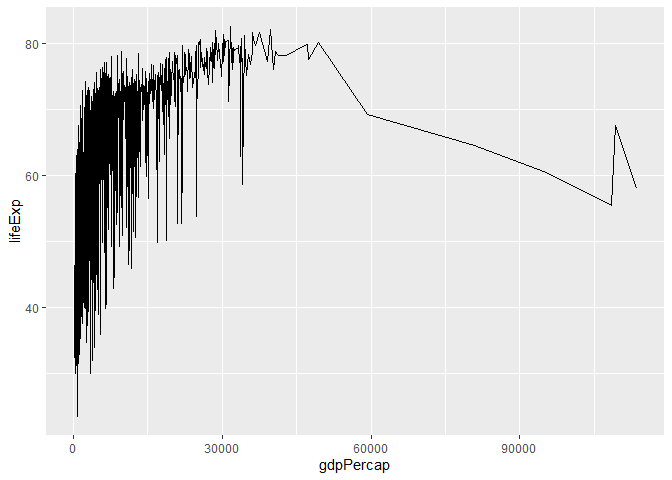
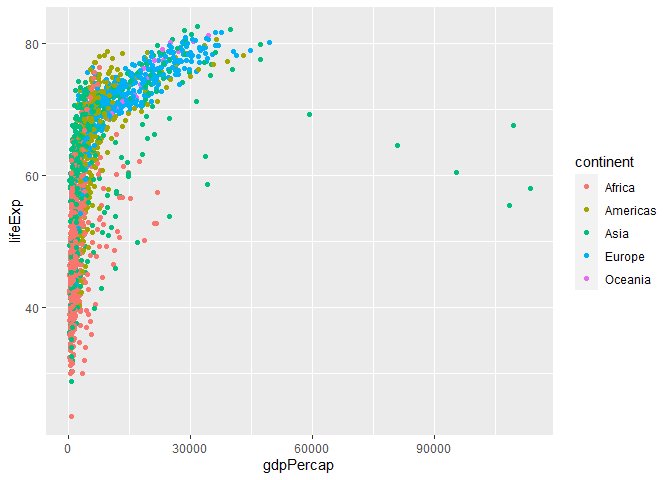
Pushing some files that were previously missed out

diff --git a/challenges/c04-gapminder-assignment.md b/challenges/c04-gapminder-assignment.md
@@ -331,12 +331,15 @@ the relationship between variables, or something else entirely.
 ## TASK: Your first graph
 gapminder %>%
   ggplot() + 
-    geom_line(aes(x = gdpPercap, y = lifeExp))
+    geom_point(aes(x = gdpPercap, y = lifeExp, color = continent))
 ```
 
 ![](c04-gapminder-assignment_files/figure-gfm/q5-task1-1.png)<!-- -->
 
-- (Your notes and observations here)
+- The relationship between life expectancy and GDP per capita seems to
+  be exponential.
+- Among all the continents, Asia has very obvious outliers with very
+  high GDP per capita values and fairly low life expectancies.
 
 ``` r
 library(patchwork) 
@@ -452,7 +455,19 @@ p2 + p3 + p1
 
 ![](c04-gapminder-assignment_files/figure-gfm/q5-task2-1.png)<!-- -->
 
-- (Your notes and observations here)
+- In the first graph of population over time, we can see that Kuwait’s
+  population growth trend generally lines up with that in Asia and over
+  the world.
+- In the second graph of GDP per capita over time, Kuwait’s data is
+  pretty inconsistent compared to Asia and all over the world. It
+  started at a very high value which is approximately 10 times greater
+  than the average of Asia and the world, while it experienced abrupt
+  decreases from 1957 to 1967 and from 1972 to 1982. The average GDP per
+  capita of Asia and the world share a similar trend that increases
+  gradually over time.
+- The average life expectancy of Asia exceeded that of the world in
+  1977, while Kuwait has a much higher value than both from the
+  beginning to the end.
 
 ``` r
 ## TASK: Your third graph
@@ -465,13 +480,9 @@ gapminder %>%
   filter(country == "Kuwait") %>%
   
   ggplot() + 
-    geom_line(aes(x = year, y = gdpPercap, color = "blue"))+
-    geom_line(aes(x = year, y = pop/coef, color = "red"))
-```
-
-![](c04-gapminder-assignment_files/figure-gfm/q5-task3-1.png)<!-- -->
-
-``` r
+    geom_line(aes(x = year, y = gdpPercap), color = "blue") +
+    geom_line(aes(x = year, y = pop/coef), color = "red") +
+    
     # Custom the Y scales:
     scale_y_continuous(
       
@@ -479,12 +490,19 @@ gapminder %>%
       name = "GDP Per Capita",
       
       # Add a second axis and specify its features
-      sec.axis = sec_axis( trans = ~.*coef, name = "Population (red)")
-    )
+      sec.axis = sec_axis( trans = ~.*coef, name = "Population")
+    ) +
+  theme(
+    axis.title.y = element_text(color = "blue", size=13),
+    axis.title.y.right = element_text(color = "red", size=13)
+  ) 
 ```
 
-    ## <ScaleContinuousPosition>
-    ##  Range:  
-    ##  Limits:    0 --    1
+![](c04-gapminder-assignment_files/figure-gfm/q5-task3-1.png)<!-- -->
 
-- (Your notes and observations here)
+- GDP per capita is calculated from the GDP of the country divided by
+  its population. This graph shows that the population of Kuwait by
+  almost 10 times from 1952 to 2007, while its GDP per capita dropped by
+  more than half over the same time length. This somehow makes sense and
+  proves the point that GDP per capita is inversely proportional to the
+  population of the same country.
